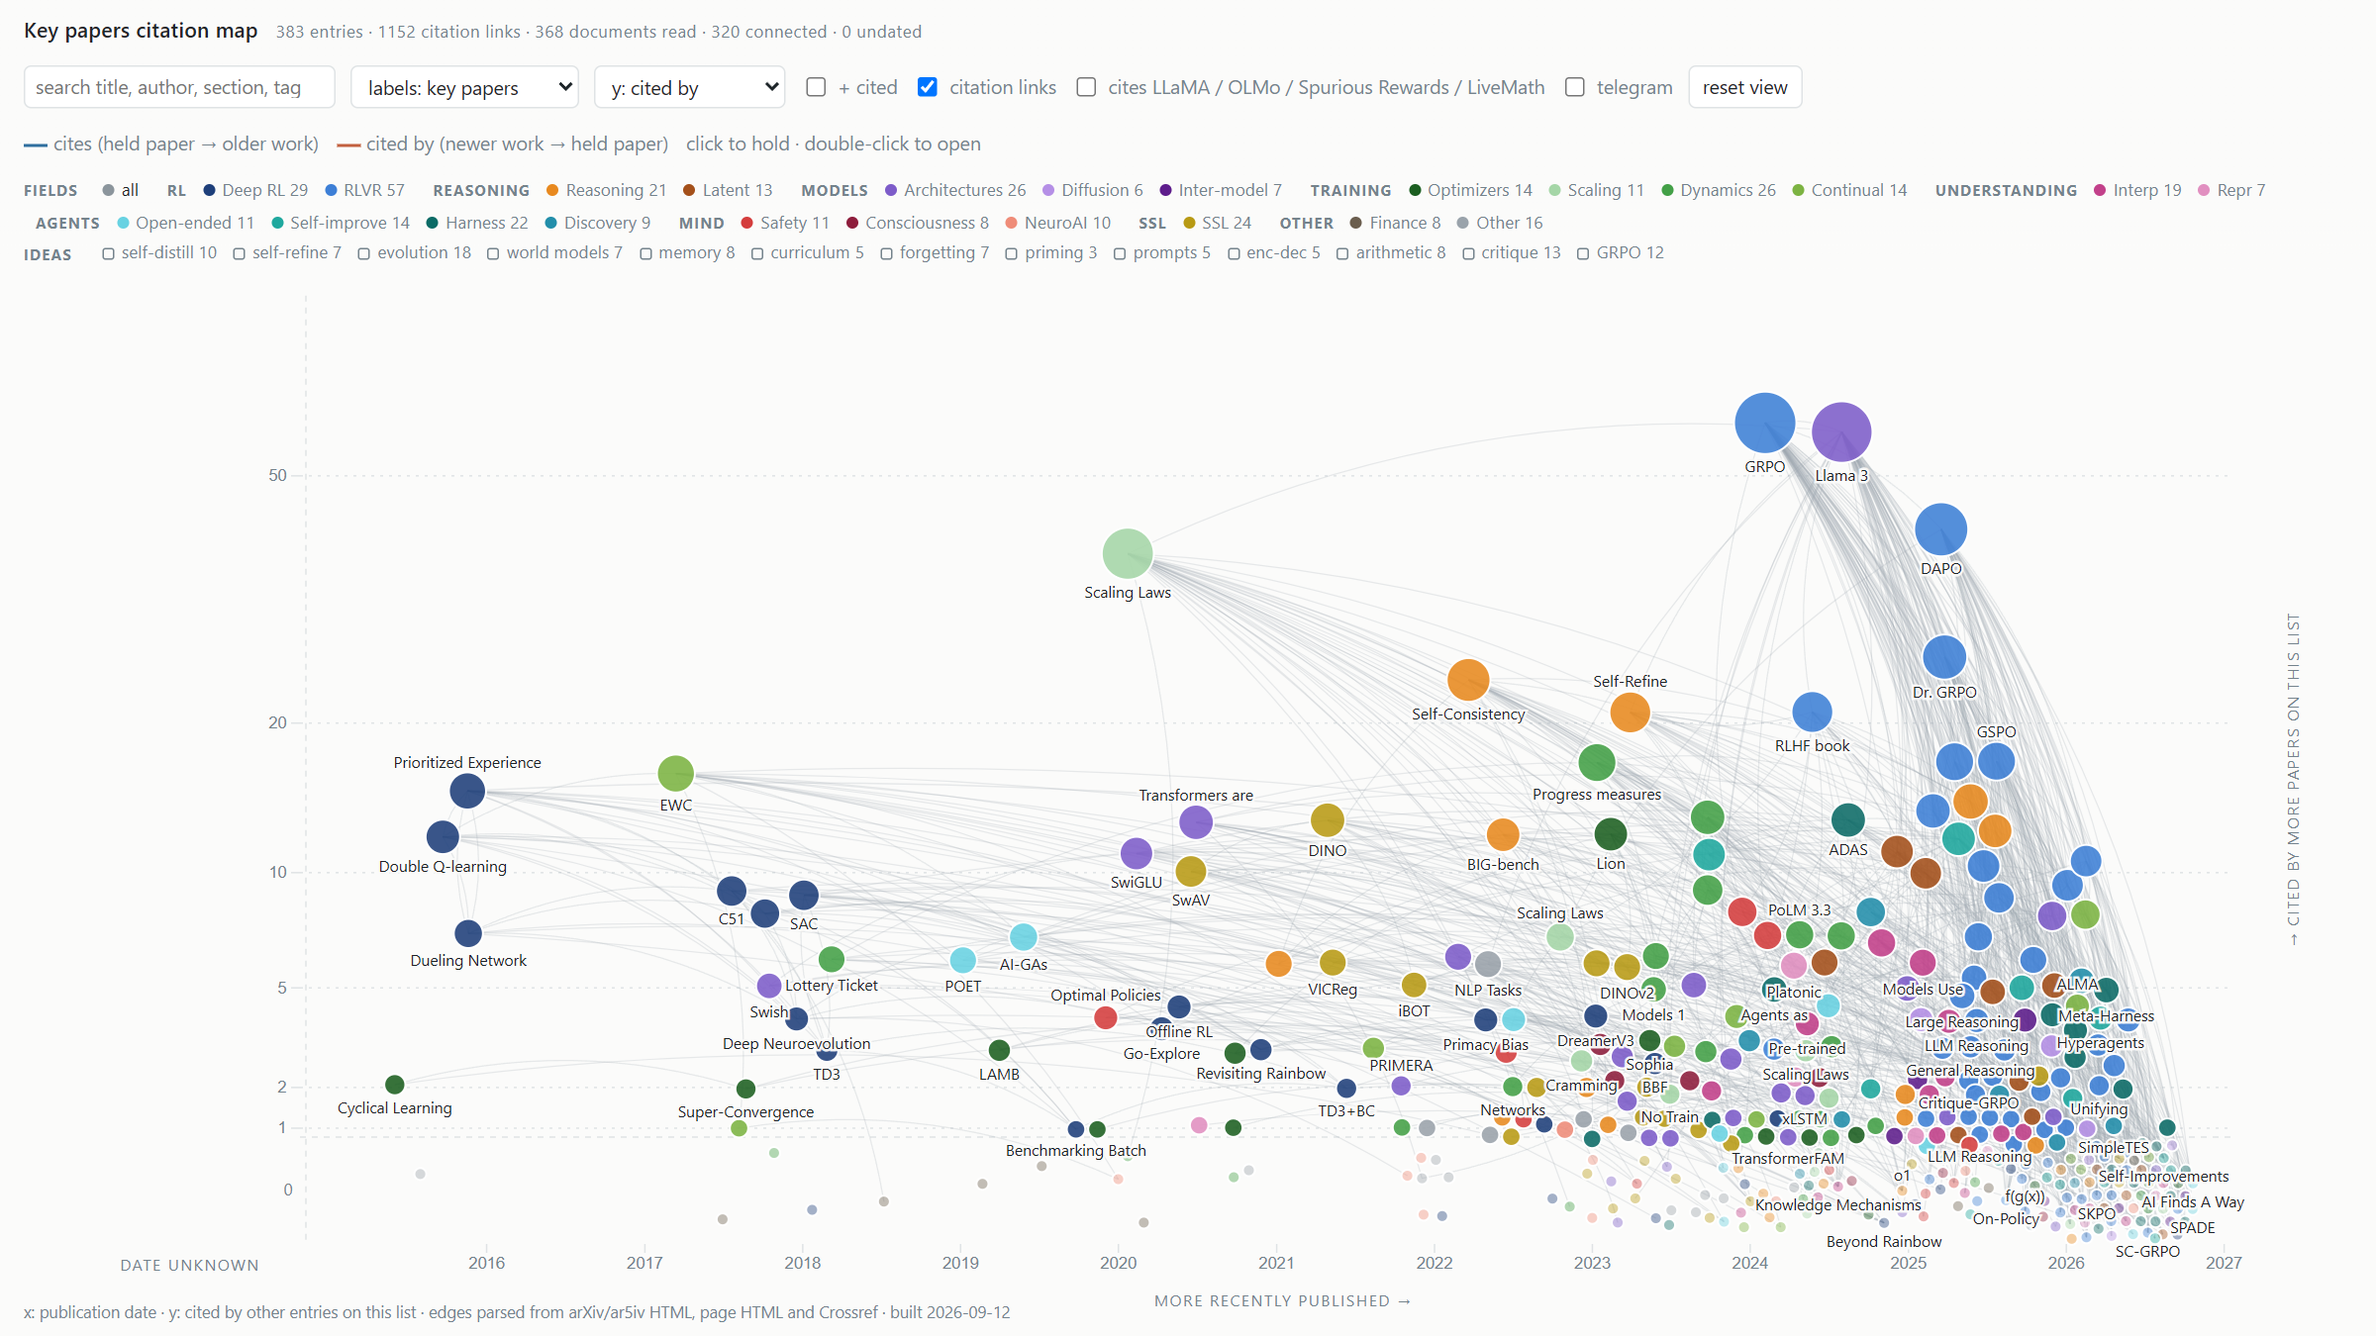
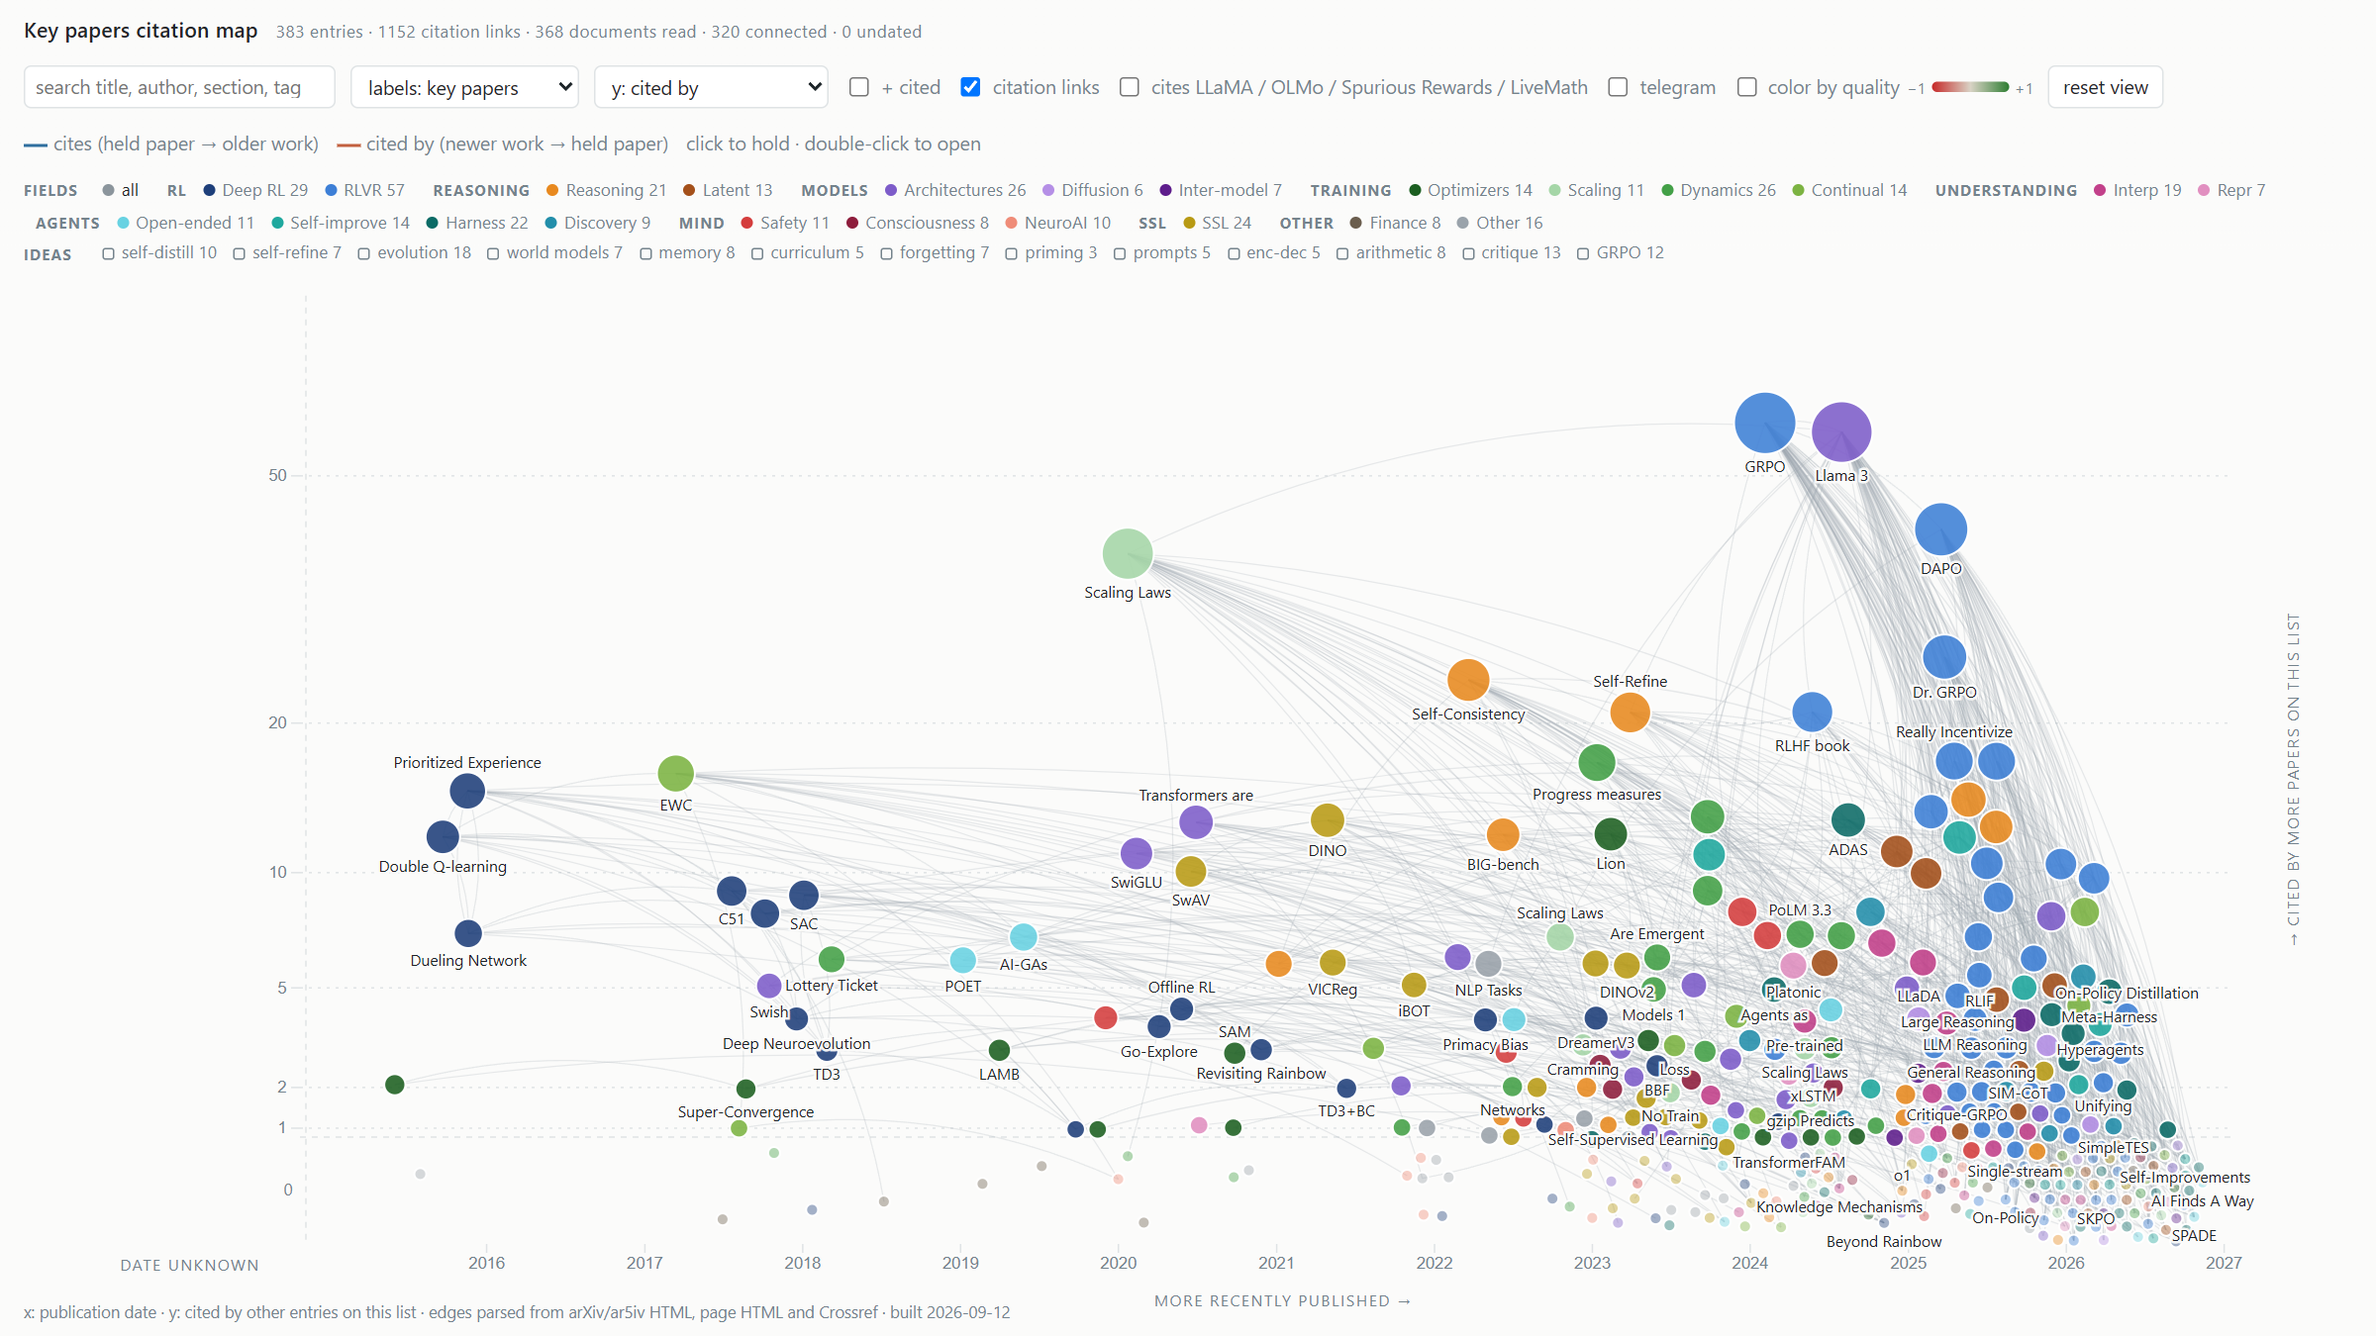
Stop map circles from stacking on the cites and quality axes.
Size now follows in-list cited-by instead of the y metric, and the collision pass can actually separate nodes.

diff --git a/src/map.js b/src/map.js
@@ -3,11 +3,12 @@
    cites, unique nested outgoing cites, outgoing cites plus
    a 1/cited bonus per outgoing target, any of those cites modes plus
    cited-by, the Litmaps citation count, or the aggregated quality
-   score (toggle). Colour can follow the topic or the aggregated
-   quality score (−1 red, +1 green). Curved links = "this paper
-   cites that one".
+   score (toggle). Circle size is in-list cited-by (Litmaps count on
+   the citation-count axis). Colour can follow the topic or the
+   aggregated quality score (−1 red, +1 green). Curved links =
+   "this paper cites that one".
    Positions are data-driven; a collision pass only nudges overlapping
-   nodes apart. */
+   nodes apart inside a per-node box. */
 (function () {
   'use strict';
 
@@ -286,22 +287,28 @@
     return 'y: cited by other entries on this list';
   }
 
+  function sizeValue(d) {
+    if (yMode() === 'citations') return d.lit_cites || 0;
+    return d.cites;
+  }
+
   function applyMetric() {
+    radius = d3.scaleSqrt()
+      .domain([0, d3.max(nodes, sizeValue) || 1])
+      .range([4, 21]);
     if (qualityMode()) {
-      radius = d3.scaleSqrt().domain([0, 2]).range([4, 21]);
+      maxY = 1;
       nodes.forEach(function (d) {
         var q = d.quality;
-        d.r = q == null ? 4 : radius(q + 1);
+        d.r = radius(sizeValue(d));
         d.score = (q == null ? 0 : q + 1) * 2 + (d.cites + d.refs) * 0.5;
       });
-      maxY = 1;
       return;
     }
     maxY = d3.max(nodes, yCount) || 1;
-    radius = d3.scaleSqrt().domain([0, maxY]).range([4, 21]);
     nodes.forEach(function (d) {
       var yv = yCount(d);
-      d.r = radius(yv);
+      d.r = radius(sizeValue(d));
       d.score = yv * 2 + (d.cites + d.refs - yv) * 0.5;
     });
   }
@@ -428,6 +435,27 @@
     plot.zeroRule = plot.bottom - ZERO_BAND + 6;
 
     var gutterMid = plot.left + GUTTER / 2;
+    function yRow(v) {
+      if (v <= 0) return plot.zeroRule;
+      return yBase(yEncode(v));
+    }
+    function clampNudge(gap) {
+      return Math.max(6, Math.min(24, 0.45 * gap));
+    }
+    function rowGap(fromY, yv, dir) {
+      var step = 1;
+      var gap = dir * (fromY - yRow(yv + dir * step));
+      while (gap < 12 && step < 24) {
+        step += 1;
+        var next = yv + dir * step;
+        if (dir < 0 && next <= 0) {
+          gap = dir * (fromY - plot.zeroRule);
+          break;
+        }
+        gap = dir * (fromY - yRow(next));
+      }
+      return gap;
+    }
     nodes.forEach(function (d, i) {
       var wobble = ((i * 2654435761) % 1000) / 1000 - 0.5;
       d.tx = d.time ? xBase(d.time) : gutterMid + wobble * (GUTTER - 26);
@@ -438,23 +466,54 @@
       d.x = d.tx;
       d.y = d.ty;
       d.undated = !d.time;
+      if (d.undated) {
+        d.xLo = plot.left + d.r;
+        d.xHi = plot.left + GUTTER - d.r;
+      } else {
+        var dxMax = Math.max(24, d.r * 2.2);
+        d.xLo = Math.max(timeLeft - 14, d.tx - dxMax);
+        d.xHi = Math.min(plot.right + 26, d.tx + dxMax);
+      }
+      var up = 6;
+      var down = 10;
+      if (hasY(d)) {
+        if (qualityMode()) {
+          up = 12;
+          down = 12;
+        } else {
+          var yv = yCount(d);
+          var near = Math.abs(d.ty - yRow(yv + 1)) < 12
+            || Math.abs(yRow(yv - 1) - d.ty) < 12;
+          if (near) {
+            up = 20;
+            down = 20;
+          } else {
+            up = clampNudge(rowGap(d.ty, yv, 1));
+            down = clampNudge(rowGap(d.ty, yv, -1));
+          }
+        }
+      }
+      d.yLo = Math.max(plot.top, d.ty - up);
+      d.yHi = Math.min(plot.bottom, d.ty + down);
     });
 
     var sim = d3.forceSimulation(nodes)
-      .force('x', d3.forceX(function (d) { return d.tx; }).strength(0.92))
-      .force('y', d3.forceY(function (d) { return d.ty; }).strength(0.96))
-      .force('collide', d3.forceCollide(function (d) { return d.r + 1.0; })
-                          .strength(0.4).iterations(2))
+      .force('x', d3.forceX(function (d) { return d.tx; }).strength(0.3))
+      .force('y', d3.forceY(function (d) { return d.ty; }).strength(0.35))
+      .force('collide', d3.forceCollide(function (d) { return d.r + 1.2; })
+                          .strength(0.9).iterations(5))
+      .force('bounds', function () {
+        nodes.forEach(function (d) {
+          if (d.x < d.xLo) { d.x = d.xLo; d.vx = 0; }
+          else if (d.x > d.xHi) { d.x = d.xHi; d.vx = 0; }
+          if (d.y < d.yLo) { d.y = d.yLo; d.vy = 0; }
+          else if (d.y > d.yHi) { d.y = d.yHi; d.vy = 0; }
+        });
+      })
       .stop();
     for (var t = 0; t < 300; t += 1) sim.tick();
 
     nodes.forEach(function (d) {
-      var lo = d.undated ? plot.left + d.r : timeLeft - 14;
-      var hi = d.undated ? plot.left + GUTTER - d.r : plot.right + 26;
-      d.x = Math.max(lo, Math.min(hi, d.x));
-      // Keep score rows intact so the last parents stay separable; only
-      // a small collide nudge is allowed.
-      d.y = Math.max(d.ty - 6, Math.min(d.ty + 10, d.y));
       d.y = Math.max(plot.top, Math.min(plot.bottom, d.y));
     });
     plot.timeLeft = timeLeft;
@@ -1040,8 +1099,15 @@
     else scheduleLabels();
   }
 
+  function sizeNote() {
+    var mode = yMode();
+    if (mode === 'cited' || mode === 'citations') return '';
+    return '  \u00b7  size: cited by on this list';
+  }
+
   function note(hitCount) {
     var base = 'x: publication date  \u00b7  ' + yNote()
+      + sizeNote()
       + (qualityColorOn() ? '  \u00b7  colour: aggregated quality' : '')
       + '  \u00b7  edges parsed from arXiv/ar5iv HTML, page HTML and'
       + ' Crossref  \u00b7  built ' + data.generated;

diff --git a/src/verify_map.py b/src/verify_map.py
@@ -37,6 +37,42 @@ def map_url(server: ThreadingHTTPServer) -> str:
     return f'http://127.0.0.1:{server.server_address[1]}/src/index.html'
 
 
+OVERLAP_JS = '''() => {
+    const gs = [...document.querySelectorAll('.nodes g')];
+    const pts = gs.map(g => {
+        const c = g.querySelector('circle');
+        const t = g.getAttribute('transform').slice(10, -1).split(',').map(Number);
+        return {x: t[0], y: t[1], r: +c.getAttribute('r')};
+    });
+    let pairs = 0;
+    for (let i = 0; i < pts.length; i++) {
+        for (let j = i + 1; j < pts.length; j++) {
+            const a = pts[i], b = pts[j];
+            if (Math.hypot(a.x - b.x, a.y - b.y) < a.r + b.r - 0.5) pairs += 1;
+        }
+    }
+    const rs = pts.map(p => p.r).sort((a, b) => a - b);
+    return {
+        pairs,
+        medianR: rs.length ? rs[Math.floor(rs.length / 2)] : 0,
+    };
+}'''
+
+
+def overlap_pairs(page) -> dict:
+    return page.evaluate(OVERLAP_JS)
+
+
+def check_overlap(page, errors: list, mode: str) -> dict:
+    stats = overlap_pairs(page)
+    print(f'{mode}: pairs {stats["pairs"]}, median r {stats["medianR"]}')
+    if stats['pairs'] > 50:
+        errors.append(
+            f'{mode} has {stats["pairs"]} overlapping pairs (max 50)'
+        )
+    return stats
+
+
 def preview() -> None:
     '''Render the still that readme.md links to.'''
     server = start_server()
@@ -378,6 +414,7 @@ def main() -> None:
                 ys,
             };
         }''')
+        check_overlap(page, errors, 'cited')
         page.select_option('#yaxis', 'cites')
         page.wait_for_timeout(900)
         cites_axis = page.evaluate('''() => {
@@ -401,6 +438,7 @@ def main() -> None:
         print('yaxis cited:', cited_axis['captions'], cited_axis['note'][:72])
         print('yaxis cites:', cites_axis['captions'], cites_axis['note'][:72],
               'moved', moved, 'r', cites_axis['biggestRadius'])
+        check_overlap(page, errors, 'cites')
         if not any('cited by more' in c for c in cited_axis['captions']):
             errors.append('cited-by axis caption missing')
         if not any('cites more' in c for c in cites_axis['captions']):
@@ -430,6 +468,7 @@ def main() -> None:
         moved_par = sum(1 for a, b in zip(cites_axis['ys'], parents_axis['ys'])
                         if abs(a - b) > 8)
         print('yaxis parents: moved vs cites', moved_par)
+        check_overlap(page, errors, 'parents')
         if not any('parent papers' in c for c in parents_axis['captions']):
             errors.append('parent-cites axis caption missing')
         if 'parent cites' not in parents_axis['note']:
@@ -457,6 +496,7 @@ def main() -> None:
         moved_ch = sum(1 for a, b in zip(cites_axis['ys'], children_axis['ys'])
                        if abs(a - b) > 8)
         print('yaxis children: moved vs cites', moved_ch)
+        check_overlap(page, errors, 'children')
         if not any('nested outgoing' in c for c in children_axis['captions']):
             errors.append('nested-cites axis caption missing')
         if 'nested outgoing' not in children_axis['note']:
@@ -484,6 +524,7 @@ def main() -> None:
         moved_bo = sum(1 for a, b in zip(cites_axis['ys'], bonus_axis['ys'])
                        if abs(a - b) > 8)
         print('yaxis bonus: moved vs cites', moved_bo)
+        check_overlap(page, errors, 'bonus')
         if not any('less-cited targets' in c for c in bonus_axis['captions']):
             errors.append('bonus-cites axis caption missing')
         if '1/cited' not in bonus_axis['note']:
@@ -571,6 +612,7 @@ def main() -> None:
                         if abs(a - b) > 8)
         print('yaxis citations: ticks', cites_num['ticks'],
               'moved', moved_cit, 'r', cites_num['biggestRadius'])
+        check_overlap(page, errors, 'citations')
         if not any('more citations' in c for c in cites_num['captions']):
             errors.append('citation-count axis caption missing')
         if 'Litmaps citation count' not in cites_num['note']:
@@ -626,6 +668,7 @@ def main() -> None:
         print('yaxis quality: ticks', quality_axis['ticks'],
               'moved', moved_q, 'hi/lo', quality_axis['hiQ'],
               quality_axis['loQ'], quality_axis['hiY'], quality_axis['loY'])
+        check_overlap(page, errors, 'quality')
         if not any('aggregated quality' in c for c in quality_axis['captions']):
             errors.append('quality axis caption missing')
         if 'aggregated quality' not in quality_axis['note']:

diff --git a/.cursor/plans/reduce_circle_overlap_on_map_e62d5de9.plan.md b/.cursor/plans/reduce_circle_overlap_on_map_e62d5de9.plan.md
@@ -1,0 +1,63 @@
+---
+name: Reduce circle overlap on map
+overview: Decouple circle size from the y-axis (size = in-list cited-by everywhere) and give the collision pass room to work (adaptive y nudge, small x nudge, stronger collide), then guard overlap with a per-mode check in verify_map.py.
+todos:
+  - id: size-rule
+    content: "applyMetric(): radius from in-list cited-by (Litmaps count on citations axis) in every mode; note() states the size rule"
+    status: completed
+  - id: layout-freedom
+    content: "layout(): per-node bounds (x ±12, adaptive y nudge ≤35% of row gap, quality ±12), weaker x/y forces, collide 0.85 x3, bounds as a per-tick force"
+    status: completed
+  - id: verify-overlap
+    content: "verify_map.py: overlap_pairs() after each y-mode switch, fail above 50 pairs"
+    status: completed
+  - id: regen
+    content: Run verify_map.py --preview, check shots and pair counts
+    status: completed
+isProject: false
+---
+
+# Reduce circle overlap on map
+
+## Measured problem (browser, 1440x860, overlapping pairs after layout)
+
+- cited 36 pairs, median r 6 — acceptable baseline
+- cites 216, parents 518, children 471, bonus 163 — median r ~9.5, 150–180 circles with r > 10
+- quality 919 — median r 16 (radius currently follows `q + 1`)
+- citations 9
+
+Two causes in [src/map.js](src/map.js):
+
+1. `applyMetric()` sizes the circle by the same value as the y-axis. Cites counts are dense (row `refs=1` holds 57 papers, rows 2–4 hold ~37 each, 149 of 268 citing papers are dated 2025–26 so they share ~200 px of x), and quality is centred so nearly every node gets a big radius.
+2. `layout()` gives the collision pass almost no freedom: `forceX 0.92`, `forceY 0.96`, `forceCollide 0.4` with 2 iterations, then a fixed post-clamp `d.y in [ty - 6, ty + 10]` and no x clamp at all (x barely moves because the force is so strong). Row gaps are 20–48 px, so ±6/10 px cannot spread 30 circles that need 2–3 sub-rows.
+
+## 1. Size = in-list cited-by in every mode — `applyMetric()` in `src/map.js`
+
+- Add `sizeValue(d)`: `yMode() === 'citations' ? (d.lit_cites || 0) : d.cites`.
+- `radius = d3.scaleSqrt().domain([0, d3.max(nodes, sizeValue) || 1]).range([4, 21])`; `d.r = radius(sizeValue(d))` for all modes, including quality (drop the `q + 1` radius branch).
+- Keep `maxY = d3.max(nodes, yCount)` for the y scale in count modes; keep `d.score` label priority as is (count modes: `yv*2 + …`; quality: `(q+1)*2 + (cites+refs)*0.5`).
+- Footer `note()`: append `size: cited by on this list` when `yMode()` is not `cited`/`citations` so the size rule is stated when it differs from the axis. Update the header comment at the top of `map.js`.
+
+## 2. Let collide actually separate circles — `layout()` in `src/map.js`
+
+- Per-node allowed box computed before the simulation:
+  - dated nodes: `dxMax = 12` px (about one month on the 11-year axis); undated keep the gutter `lo/hi`.
+  - count modes, `yv > 0`: `up = clamp(0.35 * (ty - yRow(yv + 1)), 6, 16)`, `down = clamp(0.35 * (yRow(yv - 1) - ty), 6, 16)` where `yRow(v) = yBase(yEncode(v))` and `yRow(0)` is `plot.zeroRule`. A node never crosses the midpoint to the neighbouring row, so rows stay readable; upper sparse rows automatically get the small nudge they have today.
+  - quality mode: `up = down = 12` px (≈0.05 score units on the ~500 px band; the tooltip shows the exact value).
+  - zero / n/a band: keep the current `-6 / +10`.
+- Forces: `forceX` 0.92 → 0.55, `forceY` 0.96 → 0.6, `forceCollide(r + 1.2)` strength 0.4 → 0.85, iterations 2 → 3, 300 ticks unchanged.
+- Replace the single post-clamp with a custom `bounds` force run every tick (clamp `d.x`/`d.y` into the box and zero the velocity component when clamped), so collide resolves within the allowed box instead of being undone at the end. Keep the final `plot.top/bottom` clamp.
+
+## 3. Regression guard — `src/verify_map.py`
+
+- Add `overlap_pairs(page)` helper (same JS used for the measurement: pairs with `dist < r1 + r2 - 0.5`, plus median r) and call it after every `#yaxis` switch (`cited`, `cites`, `parents`, `children`, `bonus`, `citations`, `quality`), printing `mode: pairs N, median r`.
+- Error if any mode has more than 50 overlapping pairs. Layout is deterministic (hash wobble, seeded d3 collide), so the threshold is stable.
+- Existing checks stay valid: the hover test still picks the biggest node (DeepSeekMath, cited mode unchanged); `moved` counts stay well above thresholds because y positions are still metric-driven.
+
+## 4. Regenerate
+
+- No data rebuild (graph unchanged). `python src/verify_map.py --preview` refreshes `shots/*.png` and `assets/preview.png`; inspect the quality and cites shots for stray overlaps and confirm all modes report ≤ 50 pairs (target ≤ 20).
+
+## Out of scope
+
+Colour-by-quality toggle, readme, filter scores, commit.
